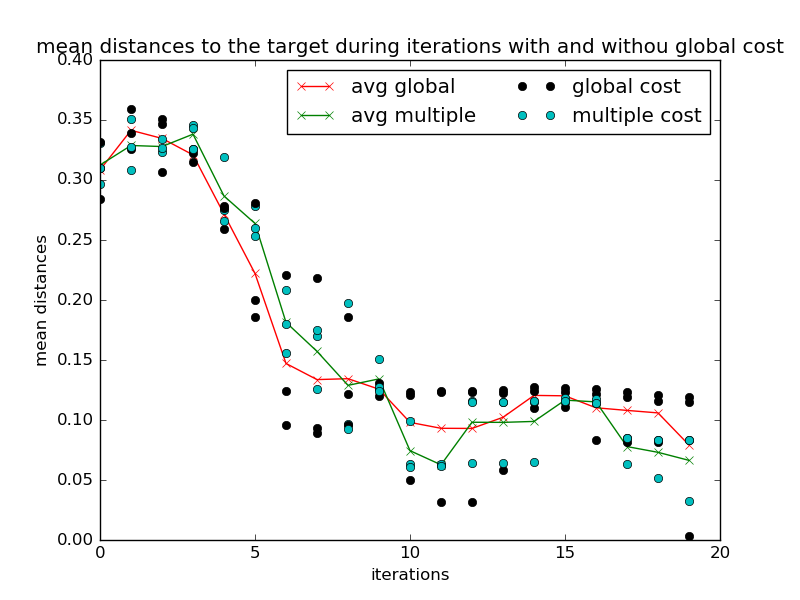
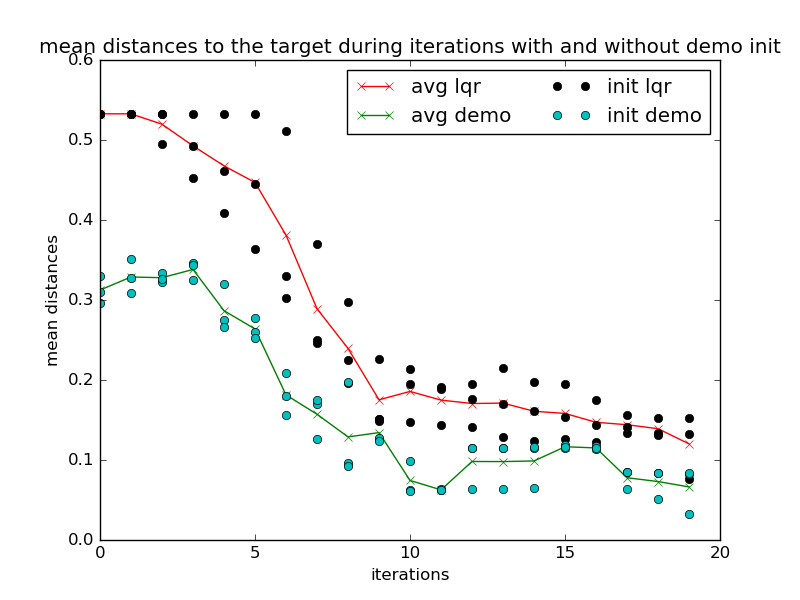
running demo init experiment

diff --git a/python/gps/gps_main.py b/python/gps/gps_main.py
@@ -487,8 +487,8 @@ def main():
 		mean_dists_global_dict, mean_dists_no_global_dict, success_rates_global_dict, \
 				success_rates_no_global_dict = {}, {}, {}, {}
 		for itr in xrange(3):
-			# random.seed(itr)
-			# np.random.seed(itr)
+			random.seed(itr)
+			np.random.seed(itr)
 			hyperparams = imp.load_source('hyperparams', hyperparams_file)
 			hyperparams.config['algorithm']['init_traj_distr']['type'] = init_lqr
 			hyperparams.config['algorithm']['global_cost'] = False
@@ -500,14 +500,14 @@ def main():
 				os.makedirs(exp_dir + 'data_files_no_demo_ini_%d' % itr + '/')
 			gps_global = GPSMain(hyperparams.config)
 			pol_iter = gps_global.algorithm._hyperparams['iterations']
-			for i in xrange(pol_iter):
-				if hyperparams.config['gui_on']:
-					gps_global.run()
-					# gps_global.test_policy(itr=i, N=compare_costs)
-					plt.close()
-				else:
-					gps_global.run()
-					# gps_global.test_policy(itr=i, N=compare_costs)
+			# for i in xrange(pol_iter):
+			# if hyperparams.config['gui_on']:
+			# 	gps_global.run()
+			# 	# gps_global.test_policy(itr=i, N=compare_costs)
+			# 	plt.close()
+			# else:
+			# 	gps_global.run()
+				# gps_global.test_policy(itr=i, N=compare_costs)
 			mean_dists_global_dict[itr], success_rates_global_dict[itr] = gps_global.measure_distance_and_success()
 			# Plot the distribution of demos.
 			if itr == 0:
@@ -551,7 +551,7 @@ def main():
 			# 		gps.test_policy(itr=i, N=compare_costs)
 			mean_dists_no_global_dict[itr], success_rates_no_global_dict[itr] = gps.measure_distance_and_success()
 
-		plt.close()
+		plt.close('all')
 		avg_dists_global = [float(sum(mean_dists_global_dict[i][j] for i in xrange(3)))/3 for j in xrange(pol_iter)]
 		avg_succ_rate_global = [float(sum(success_rates_global_dict[i][j] for i in xrange(3)))/3 for j in xrange(pol_iter)]
 		avg_dists_no_global = [float(sum(mean_dists_no_global_dict[i][j] for i in xrange(3)))/3 for j in xrange(pol_iter)]
@@ -568,7 +568,7 @@ def main():
 		# plt.legend(['avg global', 'avg multiple', 'global cost', 'multiple cost'], loc='upper right', ncol=2)
 		plt.legend(['avg lqr', 'avg demo', 'init lqr', 'init demo'], loc='upper right', ncol=2)		
 		# plt.title("mean distances to the target during iterations with and without global cost")
-		plt.title("mean distances to the target during iterations with and without demo initialization")
+		plt.title("mean distances to the target during iterations with and without demo init")
 		plt.xlabel("iterations")
 		plt.ylabel("mean distances")
 		plt.savefig(exp_dir + 'mean_dists_during_iteration_comparison.png')
@@ -593,11 +593,11 @@ def main():
 
 	elif learning_from_prior:
 		ioc_conditions = [np.array([random.choice([np.random.uniform(-0.15, -0.09), np.random.uniform(0.09, 0.15)]), \
-						random.choice([np.random.uniform(-0.15, -0.09), np.random.uniform(0.09, 0.15)])]) for i in xrange(10)]
+						random.choice([np.random.uniform(-0.15, -0.09), np.random.uniform(0.09, 0.15)])]) for i in xrange(1)]
 		top_bottom = [np.array([np.random.uniform(-0.08, 0.08), \
-						random.choice([np.random.uniform(-0.15, -0.09), np.random.uniform(0.09, 0.15)])]) for i in xrange(10)]
+						random.choice([np.random.uniform(-0.15, -0.09), np.random.uniform(0.09, 0.15)])]) for i in xrange(1)]
 		left_right = [np.array([random.choice([np.random.uniform(-0.15, -0.09), np.random.uniform(0.09, 0.15)]), \
-						np.random.uniform(-0.08, 0.08)]) for i in xrange(10)]
+						np.random.uniform(-0.08, 0.08)]) for i in xrange(1)]
 		ioc_conditions.extend(top_bottom)
 		ioc_conditions.extend(left_right)
 		exp_iter = hyperparams.config['algorithm']['iterations']
@@ -687,11 +687,11 @@ def main():
 			demos['demoO'] = np.vstack((demos['demoO'], new_sample_list.get_obs()))
 			gps.data_logger.pickle(demo_file)
 			harder_ioc_conditions = [np.array([random.choice([np.random.uniform(-0.2, -0.09), np.random.uniform(0.09, 0.2)]), \
-						random.choice([np.random.uniform(-0.2, -0.09), np.random.uniform(0.09, 0.2)])]) for i in xrange(10)]
+						random.choice([np.random.uniform(-0.2, -0.09), np.random.uniform(0.09, 0.2)])]) for i in xrange(1)]
 			top_bottom = [np.array([np.random.uniform(-0.08, 0.08), \
-							random.choice([np.random.uniform(-0.2, -0.09), np.random.uniform(0.09, 0.2)])]) for i in xrange(10)]
+							random.choice([np.random.uniform(-0.2, -0.09), np.random.uniform(0.09, 0.2)])]) for i in xrange(1)]
 			left_right = [np.array([random.choice([np.random.uniform(-0.2, -0.09), np.random.uniform(0.09, 0.2)]), \
-							np.random.uniform(-0.08, 0.08)]) for i in xrange(10)]
+							np.random.uniform(-0.08, 0.08)]) for i in xrange(1)]
 			harder_ioc_conditions.extend(top_bottom + left_right)
 			mean_dists = []
 			# success_ioc_samples = []

diff --git a/experiments/mjc_mdgps_ioc_example/hyperparams.py b/experiments/mjc_mdgps_ioc_example/hyperparams.py
@@ -97,7 +97,7 @@ algorithm = {
     'conditions': common['conditions'],
     'learning_from_prior': True,
     'ioc' : True,
-    'iterations': 20,
+    'iterations': 1,
     'kl_step': 1.0,
     'min_step_mult': 0.05,
     'max_step_mult': 3.0,
